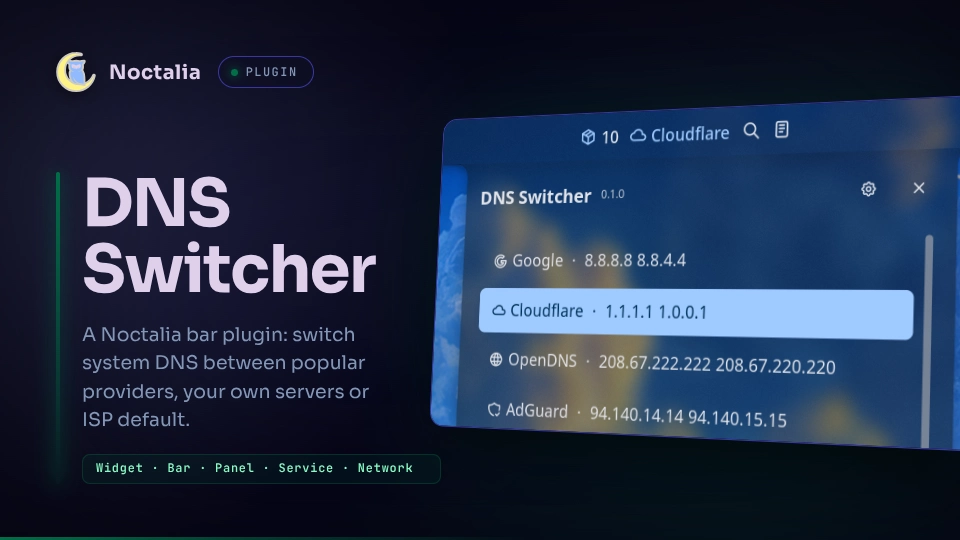
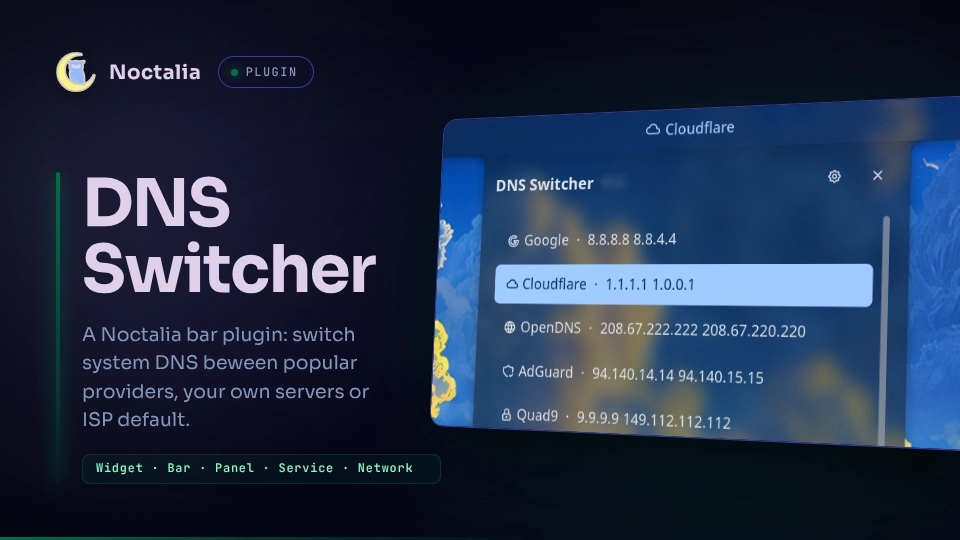
Update nightwatch75/dns-switcher to 0.1.2 — fix #292 review notes (#319)
Addresses the three non-blocking notes from #292:

- README's plugin_api requirement was stale (22) vs the manifest's real
  minimum (17, the onExit lifecycle addition) — corrected, and pinned the
  noctalia version floor to beta.7 (the first tagged release plugin_api
  actually reaches 17 in).
- apply()'s privilege path ran the whole discovery+mutate script through
  `priv sh -c '...'`, which the documented sudoers rule (NOPASSWD:
  /usr/bin/nmcli) never covers — sudo -n always failed. Now the privilege
  prefix is applied to each of the two mutating nmcli calls individually,
  never to a wrapping shell.
- Regenerated thumbnail.webp.

Changed region(s): [[0.4375, 0.1778, 1.0, 0.8296], [0.5938, 0.2074, 0.8438, 0.2667], [0.2188, 0.6519, 0.375, 0.7111]]

diff --git a/dns-switcher/README.md b/dns-switcher/README.md
@@ -75,8 +75,8 @@ neighbouring provider (what scroll sends).
 
 ## Requirements
 
-- noctalia v5.0.0-beta.6 or newer for the core plugin; the gesture remapping
-  and lookup tester need a newer build still (`plugin_api = 22`)
+- noctalia v5.0.0-beta.7 or newer (`plugin_api = 17`, for the `onExit`
+  lifecycle cleanup in `service.luau`)
 - NetworkManager (`networkmanager`, provides `nmcli`) with an active connection
 - Permission to modify system connections (see *Privileges* below)
 - `dig` (bind-tools/dnsutils) or `nslookup`, optional — only the lookup
@@ -87,12 +87,18 @@ neighbouring provider (what scroll sends).
 *Privilege command* is **empty by default**: NetworkManager's polkit policy
 usually lets active local sessions modify system connections without a
 password. If you get a "not authorized" error, set it to `pkexec` (shows
-noctalia's own polkit prompt) or `sudo -n` with a matching sudoers rule:
+noctalia's own polkit prompt) or `sudo -n` with a matching sudoers rule.
+The privilege command is applied to the `nmcli con mod` and `nmcli device
+reapply` calls individually — never to a wrapping shell — so the sudoers
+rule only ever needs to name `nmcli` itself:
 
 ```
 # /etc/sudoers.d/nmcli-dns
 youruser ALL=(root) NOPASSWD: /usr/bin/nmcli
 ```
+
+With `pkexec`, this means an apply may show its polkit prompt twice (once
+per elevated `nmcli` call) instead of once.
 
 Or grant it via a polkit rule and keep the setting empty:
 
